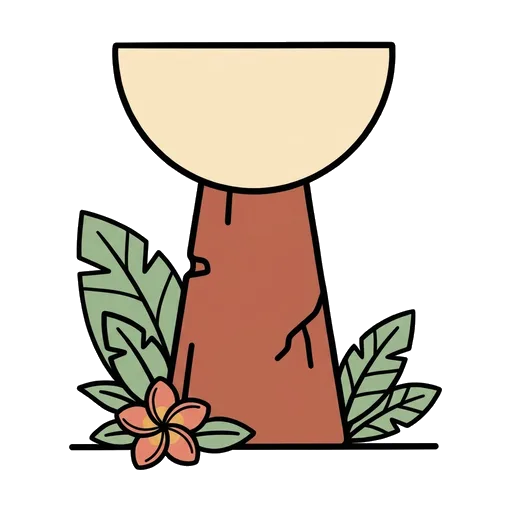
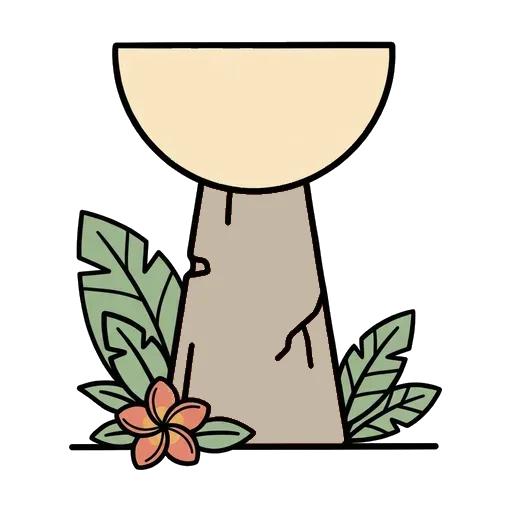
Add new picture categories and recolor the Detailed latte stone (#60)
Adds Bugs, Space, Food, Holidays, People and Patterns ahead of the art
expansion, moves the existing butterfly, snail, rocket, moon, and treats
into them, and recolors the Detailed latte stone shaft to gray-beige.

Changed region(s): [[0.3125, 0.3438, 0.6875, 0.875]]

diff --git a/mobile/src/data/art.generated.ts b/mobile/src/data/art.generated.ts
@@ -36,9 +36,9 @@ export const generatedArt: Record<ArtLevel, readonly GeneratedArt[]> = {
     // eslint-disable-next-line @typescript-eslint/no-require-imports -- Metro needs literal asset requires.
     { id: "duck", name: "Duck", category: "animals", color: () => require("../../../shared/art/simple/duck/color.webp"), line: { kind: 'asset', moduleId: () => require("../../../shared/art/simple/duck/line.svg") } },
     // eslint-disable-next-line @typescript-eslint/no-require-imports -- Metro needs literal asset requires.
-    { id: "butterfly", name: "Butterfly", category: "animals", color: () => require("../../../shared/art/simple/butterfly/color.webp"), line: { kind: 'asset', moduleId: () => require("../../../shared/art/simple/butterfly/line.svg") } },
+    { id: "butterfly", name: "Butterfly", category: "bugs", color: () => require("../../../shared/art/simple/butterfly/color.webp"), line: { kind: 'asset', moduleId: () => require("../../../shared/art/simple/butterfly/line.svg") } },
     // eslint-disable-next-line @typescript-eslint/no-require-imports -- Metro needs literal asset requires.
-    { id: "snail", name: "Snail", category: "animals", color: () => require("../../../shared/art/simple/snail/color.webp"), line: { kind: 'asset', moduleId: () => require("../../../shared/art/simple/snail/line.svg") } },
+    { id: "snail", name: "Snail", category: "bugs", color: () => require("../../../shared/art/simple/snail/color.webp"), line: { kind: 'asset', moduleId: () => require("../../../shared/art/simple/snail/line.svg") } },
     // eslint-disable-next-line @typescript-eslint/no-require-imports -- Metro needs literal asset requires.
     { id: "t-rex", name: "T. rex", category: "dinosaurs", color: () => require("../../../shared/art/simple/t-rex/color.webp"), line: { kind: 'asset', moduleId: () => require("../../../shared/art/simple/t-rex/line.svg") } },
     // eslint-disable-next-line @typescript-eslint/no-require-imports -- Metro needs literal asset requires.
@@ -58,7 +58,7 @@ export const generatedArt: Record<ArtLevel, readonly GeneratedArt[]> = {
     // eslint-disable-next-line @typescript-eslint/no-require-imports -- Metro needs literal asset requires.
     { id: "mermaid", name: "Mermaid", category: "magic", color: () => require("../../../shared/art/simple/mermaid/color.webp"), line: { kind: 'asset', moduleId: () => require("../../../shared/art/simple/mermaid/line.svg") } },
     // eslint-disable-next-line @typescript-eslint/no-require-imports -- Metro needs literal asset requires.
-    { id: "rocket", name: "Rocket", category: "go", color: () => require("../../../shared/art/simple/rocket/color.webp"), line: { kind: 'asset', moduleId: () => require("../../../shared/art/simple/rocket/line.svg") } },
+    { id: "rocket", name: "Rocket", category: "space", color: () => require("../../../shared/art/simple/rocket/color.webp"), line: { kind: 'asset', moduleId: () => require("../../../shared/art/simple/rocket/line.svg") } },
     // eslint-disable-next-line @typescript-eslint/no-require-imports -- Metro needs literal asset requires.
     { id: "race-car", name: "Race Car", category: "go", color: () => require("../../../shared/art/simple/race-car/color.webp"), line: { kind: 'asset', moduleId: () => require("../../../shared/art/simple/race-car/line.svg") } },
     // eslint-disable-next-line @typescript-eslint/no-require-imports -- Metro needs literal asset requires.
@@ -80,7 +80,7 @@ export const generatedArt: Record<ArtLevel, readonly GeneratedArt[]> = {
     // eslint-disable-next-line @typescript-eslint/no-require-imports -- Metro needs literal asset requires.
     { id: "mushroom", name: "Mushroom", category: "nature", color: () => require("../../../shared/art/simple/mushroom/color.webp"), line: { kind: 'asset', moduleId: () => require("../../../shared/art/simple/mushroom/line.svg") } },
     // eslint-disable-next-line @typescript-eslint/no-require-imports -- Metro needs literal asset requires.
-    { id: "moon-stars", name: "Moon and Stars", category: "nature", color: () => require("../../../shared/art/simple/moon-stars/color.webp"), line: { kind: 'asset', moduleId: () => require("../../../shared/art/simple/moon-stars/line.svg") } },
+    { id: "moon-stars", name: "Moon and Stars", category: "space", color: () => require("../../../shared/art/simple/moon-stars/color.webp"), line: { kind: 'asset', moduleId: () => require("../../../shared/art/simple/moon-stars/line.svg") } },
     // eslint-disable-next-line @typescript-eslint/no-require-imports -- Metro needs literal asset requires.
     { id: "latte-stone", name: "Latte Stone", category: "guam", color: () => require("../../../shared/art/simple/latte-stone/color.webp"), line: { kind: 'asset', moduleId: () => require("../../../shared/art/simple/latte-stone/line.svg") } },
     // eslint-disable-next-line @typescript-eslint/no-require-imports -- Metro needs literal asset requires.
@@ -98,11 +98,11 @@ export const generatedArt: Record<ArtLevel, readonly GeneratedArt[]> = {
     // eslint-disable-next-line @typescript-eslint/no-require-imports -- Metro needs literal asset requires.
     { id: "guam-island", name: "Guam", category: "guam", color: () => require("../../../shared/art/simple/guam-island/color.webp"), line: { kind: 'asset', moduleId: () => require("../../../shared/art/simple/guam-island/line.svg") } },
     // eslint-disable-next-line @typescript-eslint/no-require-imports -- Metro needs literal asset requires.
-    { id: "ice-cream", name: "Ice Cream", category: "fun", color: () => require("../../../shared/art/simple/ice-cream/color.webp"), line: { kind: 'asset', moduleId: () => require("../../../shared/art/simple/ice-cream/line.svg") } },
+    { id: "ice-cream", name: "Ice Cream", category: "food", color: () => require("../../../shared/art/simple/ice-cream/color.webp"), line: { kind: 'asset', moduleId: () => require("../../../shared/art/simple/ice-cream/line.svg") } },
     // eslint-disable-next-line @typescript-eslint/no-require-imports -- Metro needs literal asset requires.
-    { id: "cupcake", name: "Cupcake", category: "fun", color: () => require("../../../shared/art/simple/cupcake/color.webp"), line: { kind: 'asset', moduleId: () => require("../../../shared/art/simple/cupcake/line.svg") } },
+    { id: "cupcake", name: "Cupcake", category: "food", color: () => require("../../../shared/art/simple/cupcake/color.webp"), line: { kind: 'asset', moduleId: () => require("../../../shared/art/simple/cupcake/line.svg") } },
     // eslint-disable-next-line @typescript-eslint/no-require-imports -- Metro needs literal asset requires.
-    { id: "birthday-cake", name: "Birthday Cake", category: "fun", color: () => require("../../../shared/art/simple/birthday-cake/color.webp"), line: { kind: 'asset', moduleId: () => require("../../../shared/art/simple/birthday-cake/line.svg") } },
+    { id: "birthday-cake", name: "Birthday Cake", category: "food", color: () => require("../../../shared/art/simple/birthday-cake/color.webp"), line: { kind: 'asset', moduleId: () => require("../../../shared/art/simple/birthday-cake/line.svg") } },
     // eslint-disable-next-line @typescript-eslint/no-require-imports -- Metro needs literal asset requires.
     { id: "balloons", name: "Balloons", category: "fun", color: () => require("../../../shared/art/simple/balloons/color.webp"), line: { kind: 'asset', moduleId: () => require("../../../shared/art/simple/balloons/line.svg") } },
   ],
@@ -140,9 +140,9 @@ export const generatedArt: Record<ArtLevel, readonly GeneratedArt[]> = {
     // eslint-disable-next-line @typescript-eslint/no-require-imports -- Metro needs literal asset requires.
     { id: "duck", name: "Duck", category: "animals", color: () => require("../../../shared/art/detailed/duck/color.webp"), line: { kind: 'asset', moduleId: () => require("../../../shared/art/detailed/duck/line.svg") } },
     // eslint-disable-next-line @typescript-eslint/no-require-imports -- Metro needs literal asset requires.
-    { id: "butterfly", name: "Butterfly", category: "animals", color: () => require("../../../shared/art/detailed/butterfly/color.webp"), line: { kind: 'asset', moduleId: () => require("../../../shared/art/detailed/butterfly/line.svg") } },
+    { id: "butterfly", name: "Butterfly", category: "bugs", color: () => require("../../../shared/art/detailed/butterfly/color.webp"), line: { kind: 'asset', moduleId: () => require("../../../shared/art/detailed/butterfly/line.svg") } },
     // eslint-disable-next-line @typescript-eslint/no-require-imports -- Metro needs literal asset requires.
-    { id: "snail", name: "Snail", category: "animals", color: () => require("../../../shared/art/detailed/snail/color.webp"), line: { kind: 'asset', moduleId: () => require("../../../shared/art/detailed/snail/line.svg") } },
+    { id: "snail", name: "Snail", category: "bugs", color: () => require("../../../shared/art/detailed/snail/color.webp"), line: { kind: 'asset', moduleId: () => require("../../../shared/art/detailed/snail/line.svg") } },
     // eslint-disable-next-line @typescript-eslint/no-require-imports -- Metro needs literal asset requires.
     { id: "t-rex", name: "T. rex", category: "dinosaurs", color: () => require("../../../shared/art/detailed/t-rex/color.webp"), line: { kind: 'asset', moduleId: () => require("../../../shared/art/detailed/t-rex/line.svg") } },
     // eslint-disable-next-line @typescript-eslint/no-require-imports -- Metro needs literal asset requires.
@@ -162,7 +162,7 @@ export const generatedArt: Record<ArtLevel, readonly GeneratedArt[]> = {
     // eslint-disable-next-line @typescript-eslint/no-require-imports -- Metro needs literal asset requires.
     { id: "mermaid", name: "Mermaid", category: "magic", color: () => require("../../../shared/art/detailed/mermaid/color.webp"), line: { kind: 'asset', moduleId: () => require("../../../shared/art/detailed/mermaid/line.svg") } },
     // eslint-disable-next-line @typescript-eslint/no-require-imports -- Metro needs literal asset requires.
-    { id: "rocket", name: "Rocket", category: "go", color: () => require("../../../shared/art/detailed/rocket/color.webp"), line: { kind: 'asset', moduleId: () => require("../../../shared/art/detailed/rocket/line.svg") } },
+    { id: "rocket", name: "Rocket", category: "space", color: () => require("../../../shared/art/detailed/rocket/color.webp"), line: { kind: 'asset', moduleId: () => require("../../../shared/art/detailed/rocket/line.svg") } },
     // eslint-disable-next-line @typescript-eslint/no-require-imports -- Metro needs literal asset requires.
     { id: "race-car", name: "Race Car", category: "go", color: () => require("../../../shared/art/detailed/race-car/color.webp"), line: { kind: 'asset', moduleId: () => require("../../../shared/art/detailed/race-car/line.svg") } },
     // eslint-disable-next-line @typescript-eslint/no-require-imports -- Metro needs literal asset requires.
@@ -184,7 +184,7 @@ export const generatedArt: Record<ArtLevel, readonly GeneratedArt[]> = {
     // eslint-disable-next-line @typescript-eslint/no-require-imports -- Metro needs literal asset requires.
     { id: "mushroom", name: "Mushroom", category: "nature", color: () => require("../../../shared/art/detailed/mushroom/color.webp"), line: { kind: 'asset', moduleId: () => require("../../../shared/art/detailed/mushroom/line.svg") } },
     // eslint-disable-next-line @typescript-eslint/no-require-imports -- Metro needs literal asset requires.
-    { id: "moon-stars", name: "Moon and Stars", category: "nature", color: () => require("../../../shared/art/detailed/moon-stars/color.webp"), line: { kind: 'asset', moduleId: () => require("../../../shared/art/detailed/moon-stars/line.svg") } },
+    { id: "moon-stars", name: "Moon and Stars", category: "space", color: () => require("../../../shared/art/detailed/moon-stars/color.webp"), line: { kind: 'asset', moduleId: () => require("../../../shared/art/detailed/moon-stars/line.svg") } },
     // eslint-disable-next-line @typescript-eslint/no-require-imports -- Metro needs literal asset requires.
     { id: "latte-stone", name: "Latte Stone", category: "guam", color: () => require("../../../shared/art/detailed/latte-stone/color.webp"), line: { kind: 'asset', moduleId: () => require("../../../shared/art/detailed/latte-stone/line.svg") } },
     // eslint-disable-next-line @typescript-eslint/no-require-imports -- Metro needs literal asset requires.
@@ -202,11 +202,11 @@ export const generatedArt: Record<ArtLevel, readonly GeneratedArt[]> = {
     // eslint-disable-next-line @typescript-eslint/no-require-imports -- Metro needs literal asset requires.
     { id: "guam-island", name: "Guam", category: "guam", color: () => require("../../../shared/art/detailed/guam-island/color.webp"), line: { kind: 'asset', moduleId: () => require("../../../shared/art/detailed/guam-island/line.svg") } },
     // eslint-disable-next-line @typescript-eslint/no-require-imports -- Metro needs literal asset requires.
-    { id: "ice-cream", name: "Ice Cream", category: "fun", color: () => require("../../../shared/art/detailed/ice-cream/color.webp"), line: { kind: 'asset', moduleId: () => require("../../../shared/art/detailed/ice-cream/line.svg") } },
+    { id: "ice-cream", name: "Ice Cream", category: "food", color: () => require("../../../shared/art/detailed/ice-cream/color.webp"), line: { kind: 'asset', moduleId: () => require("../../../shared/art/detailed/ice-cream/line.svg") } },
     // eslint-disable-next-line @typescript-eslint/no-require-imports -- Metro needs literal asset requires.
-    { id: "cupcake", name: "Cupcake", category: "fun", color: () => require("../../../shared/art/detailed/cupcake/color.webp"), line: { kind: 'asset', moduleId: () => require("../../../shared/art/detailed/cupcake/line.svg") } },
+    { id: "cupcake", name: "Cupcake", category: "food", color: () => require("../../../shared/art/detailed/cupcake/color.webp"), line: { kind: 'asset', moduleId: () => require("../../../shared/art/detailed/cupcake/line.svg") } },
     // eslint-disable-next-line @typescript-eslint/no-require-imports -- Metro needs literal asset requires.
-    { id: "birthday-cake", name: "Birthday Cake", category: "fun", color: () => require("../../../shared/art/detailed/birthday-cake/color.webp"), line: { kind: 'asset', moduleId: () => require("../../../shared/art/detailed/birthday-cake/line.svg") } },
+    { id: "birthday-cake", name: "Birthday Cake", category: "food", color: () => require("../../../shared/art/detailed/birthday-cake/color.webp"), line: { kind: 'asset', moduleId: () => require("../../../shared/art/detailed/birthday-cake/line.svg") } },
     // eslint-disable-next-line @typescript-eslint/no-require-imports -- Metro needs literal asset requires.
     { id: "balloons", name: "Balloons", category: "fun", color: () => require("../../../shared/art/detailed/balloons/color.webp"), line: { kind: 'asset', moduleId: () => require("../../../shared/art/detailed/balloons/line.svg") } },
   ],

diff --git a/mobile/src/features/home/HomeScreen.tsx b/mobile/src/features/home/HomeScreen.tsx
@@ -14,9 +14,9 @@ import { CanvasButton } from '../../ui/CanvasButton'
 import { Icon } from '../../ui/Icon'
 import type { IconGlyph } from '../../ui/Icon'
 import {
-  FishSimpleIcon, HeartIcon, ImageIcon, ImagesSquareIcon, IslandIcon, LeafIcon, MagnifyingGlassIcon,
-  PawPrintIcon, PencilSimpleIcon, PlayIcon, RocketLaunchIcon, ShapesIcon, SmileyIcon, SparkleIcon,
-  SquaresFourIcon, TextAaIcon, TipiIcon, UserIcon,
+  BugIcon, FishSimpleIcon, GiftIcon, HeartIcon, IceCreamIcon, ImageIcon, ImagesSquareIcon, IslandIcon, LeafIcon,
+  MagnifyingGlassIcon, PawPrintIcon, PencilSimpleIcon, PlanetIcon, PlayIcon, RocketLaunchIcon, ShapesIcon, SmileyIcon,
+  SparkleIcon, SpiralIcon, SquaresFourIcon, TextAaIcon, TipiIcon, UserIcon, UsersThreeIcon,
 } from '../../ui/icons'
 import { PressTarget } from '../../ui/PressTarget'
 import { Text } from '../../ui/Text'
@@ -29,7 +29,8 @@ import { useFavorites } from './useFavorites'
 
 const categoryIcons: Record<PictureCategory, IconGlyph> = {
   animals: PawPrintIcon, ocean: FishSimpleIcon, magic: SparkleIcon, go: RocketLaunchIcon, guam: IslandIcon,
-  letters: TextAaIcon, shapes: ShapesIcon, dinosaurs: TipiIcon, nature: LeafIcon, fun: SmileyIcon,
+  letters: TextAaIcon, shapes: ShapesIcon, dinosaurs: TipiIcon, nature: LeafIcon, fun: SmileyIcon, bugs: BugIcon,
+  space: PlanetIcon, food: IceCreamIcon, holidays: GiftIcon, people: UsersThreeIcon, patterns: SpiralIcon,
 }
 
 type Category = PictureCategory | 'all' | 'favorites'

diff --git a/mobile/src/data/catalog.ts b/mobile/src/data/catalog.ts
@@ -8,18 +8,25 @@ import { drawingFromPracticeSource, makePracticeSource } from './practiceSource'
 
 export const artLevels = ['simple', 'detailed'] as const
 export type ArtLevel = typeof artLevels[number]
-export type PictureCategory = 'ocean' | 'animals' | 'dinosaurs' | 'magic' | 'go' | 'nature' | 'guam' | 'fun' | 'letters' | 'shapes'
+export type PictureCategory = 'ocean' | 'animals' | 'bugs' | 'dinosaurs' | 'magic' | 'go' | 'space' | 'nature' | 'guam' | 'food' | 'holidays'
+  | 'people' | 'patterns' | 'fun' | 'letters' | 'shapes'
 
 export const pictureCategories: { id: PictureCategory; label: string }[] = [
   { id: 'animals', label: 'Animals' },
+  { id: 'bugs', label: 'Bugs' },
   { id: 'ocean', label: 'Ocean' },
   { id: 'magic', label: 'Magic' },
   { id: 'go', label: 'Things that go' },
+  { id: 'space', label: 'Space' },
   { id: 'guam', label: 'Guam' },
   { id: 'letters', label: 'Letters and numbers' },
   { id: 'shapes', label: 'Shapes' },
   { id: 'dinosaurs', label: 'Dinosaurs' },
   { id: 'nature', label: 'Nature' },
+  { id: 'food', label: 'Food' },
+  { id: 'holidays', label: 'Holidays' },
+  { id: 'people', label: 'People' },
+  { id: 'patterns', label: 'Patterns' },
   { id: 'fun', label: 'Fun' },
 ]
 

diff --git a/mobile/src/ui/icons.ts b/mobile/src/ui/icons.ts
@@ -51,4 +51,10 @@ export const HandPointingIcon: Icon = require('phosphor-react-native/src/icons/H
 export const TipiIcon: Icon = require('phosphor-react-native/src/icons/Tipi').TipiIcon
 export const MagnifyingGlassIcon: Icon = require('phosphor-react-native/src/icons/MagnifyingGlass').MagnifyingGlassIcon
 export const HeartIcon: Icon = require('phosphor-react-native/src/icons/Heart').HeartIcon
+export const BugIcon: Icon = require('phosphor-react-native/src/icons/Bug').BugIcon
+export const PlanetIcon: Icon = require('phosphor-react-native/src/icons/Planet').PlanetIcon
+export const IceCreamIcon: Icon = require('phosphor-react-native/src/icons/IceCream').IceCreamIcon
+export const GiftIcon: Icon = require('phosphor-react-native/src/icons/Gift').GiftIcon
+export const UsersThreeIcon: Icon = require('phosphor-react-native/src/icons/UsersThree').UsersThreeIcon
+export const SpiralIcon: Icon = require('phosphor-react-native/src/icons/Spiral').SpiralIcon
 /* eslint-enable @typescript-eslint/no-require-imports */

diff --git a/scripts/generate-art-index.ts b/scripts/generate-art-index.ts
@@ -6,7 +6,8 @@ import { fileURLToPath } from 'node:url'
 const root = resolve(dirname(fileURLToPath(import.meta.url)), '..')
 const output = resolve(root, 'mobile/src/data/art.generated.ts')
 const levels = ['simple', 'detailed'] as const
-const categories = ['ocean', 'animals', 'dinosaurs', 'magic', 'go', 'nature', 'guam', 'fun', 'letters', 'shapes']
+const categories = ['ocean', 'animals', 'bugs', 'dinosaurs', 'magic', 'go', 'space', 'nature', 'guam', 'food', 'holidays', 'people', 'patterns', 'fun',
+  'letters', 'shapes']
 const lineDigest = createHash('sha256')
 
 function entries(level: typeof levels[number]) {

diff --git a/mobile/src/features/picture/picturePastel.ts b/mobile/src/features/picture/picturePastel.ts
@@ -3,5 +3,6 @@ import type { Pastel } from '../../ui/theme'
 
 export const picturePastel: Record<PictureCategory, Pastel> = {
   ocean: 'sky', animals: 'peach', magic: 'lilac', go: 'butter', guam: 'mint',
-  nature: 'mint', dinosaurs: 'mint', fun: 'rose', letters: 'butter', shapes: 'lilac',
+  nature: 'mint', dinosaurs: 'mint', fun: 'rose', letters: 'butter', shapes: 'lilac', bugs: 'butter',
+  space: 'lilac', food: 'rose', holidays: 'peach', people: 'peach', patterns: 'sky',
 }

diff --git a/shared/art/detailed/PROMPTS.md b/shared/art/detailed/PROMPTS.md
@@ -128,3 +128,7 @@ Every rejected generation was discarded and regenerated until both visual qualit
 
 - **`coconut-crab` line weight:** Lowest `Disk:4` in the set at `18.3%` due to the fine carapace and leg detail, still comfortably above PR #47's 5.9%–16.0% range and crisp in `rsvg-convert` round-trip rendering.
 
+
+## Post-generation fixes
+
+- `latte-stone` color: the shaft came out terracotta. Real latte stones are gray-beige limestone, so the shaft fill was recolored to `#C4B8A4` (flat replace inside the shaft only; the plumeria and leaves are unchanged).
